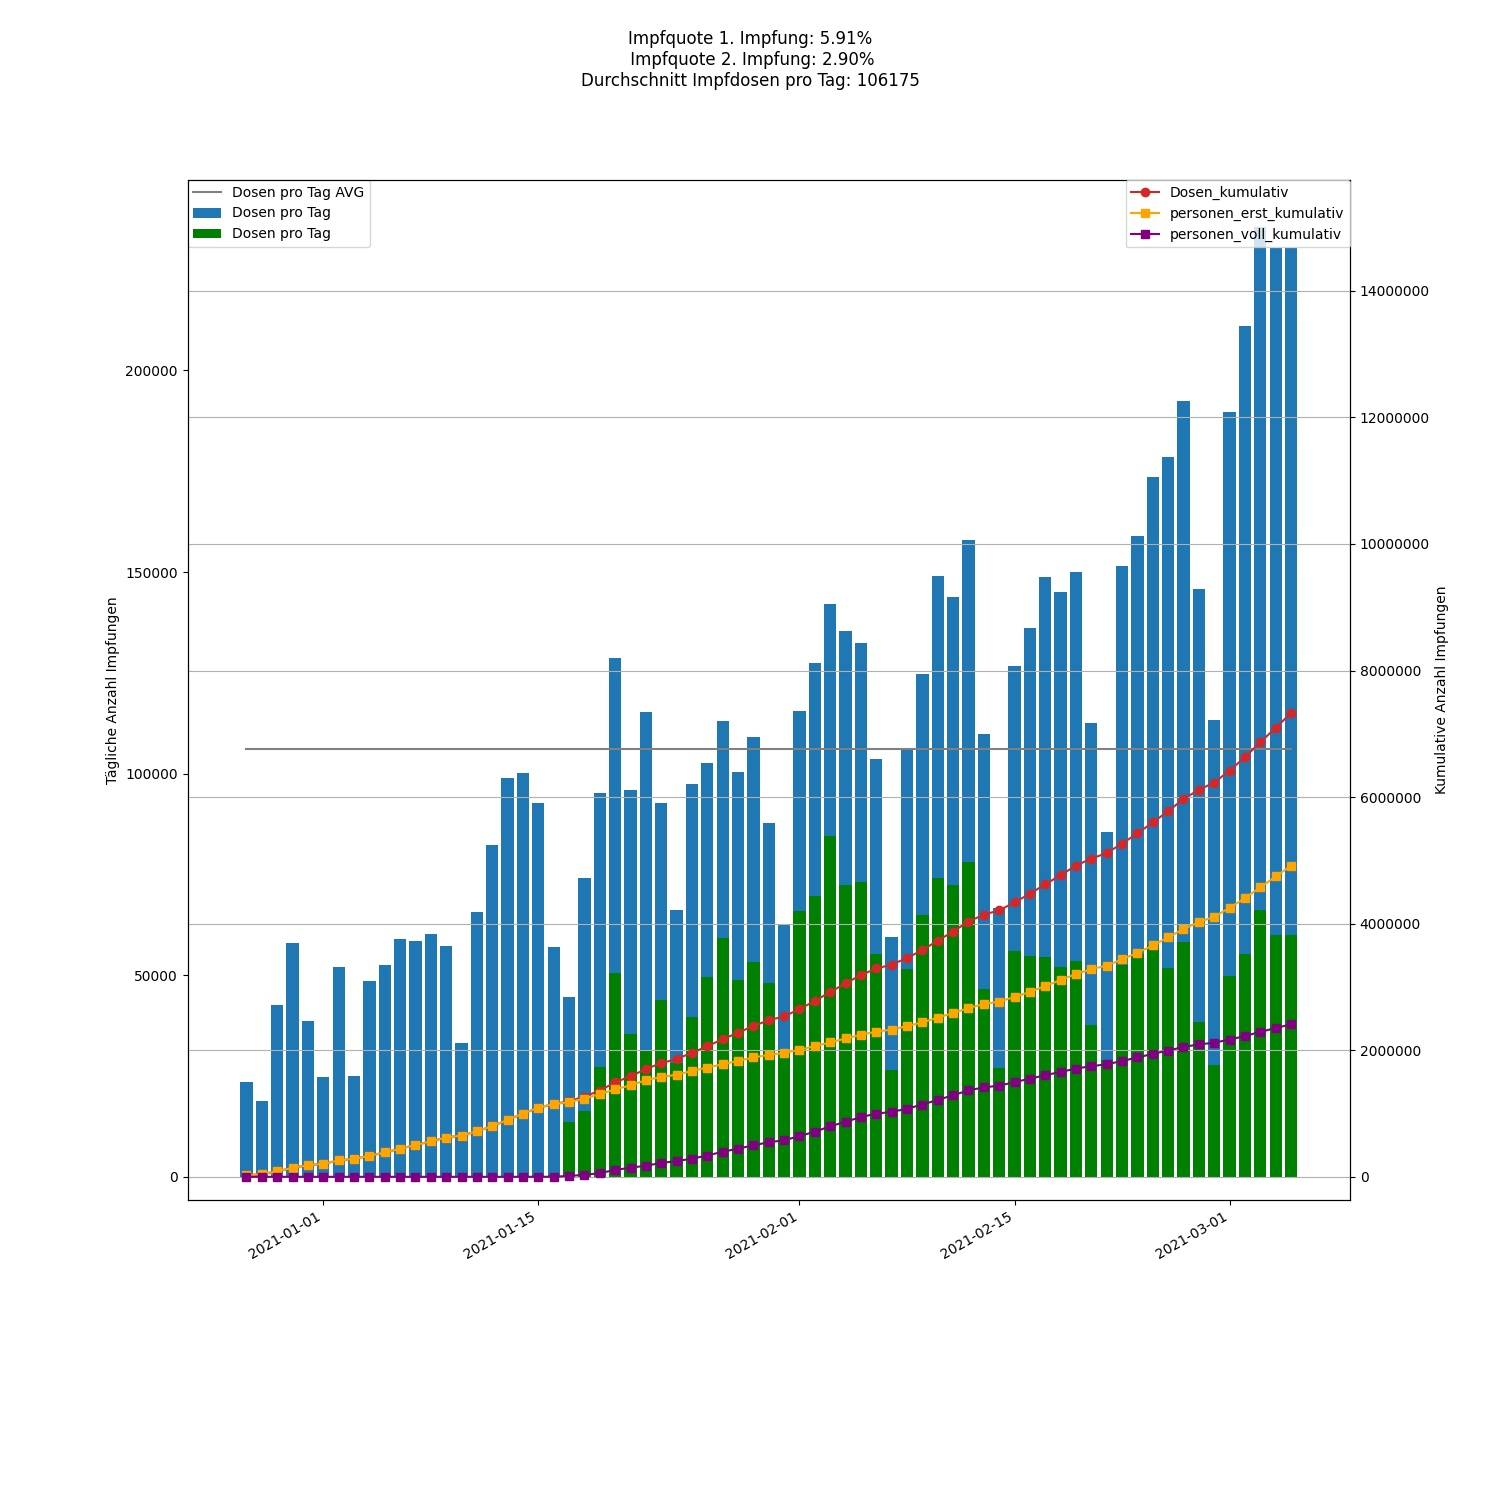
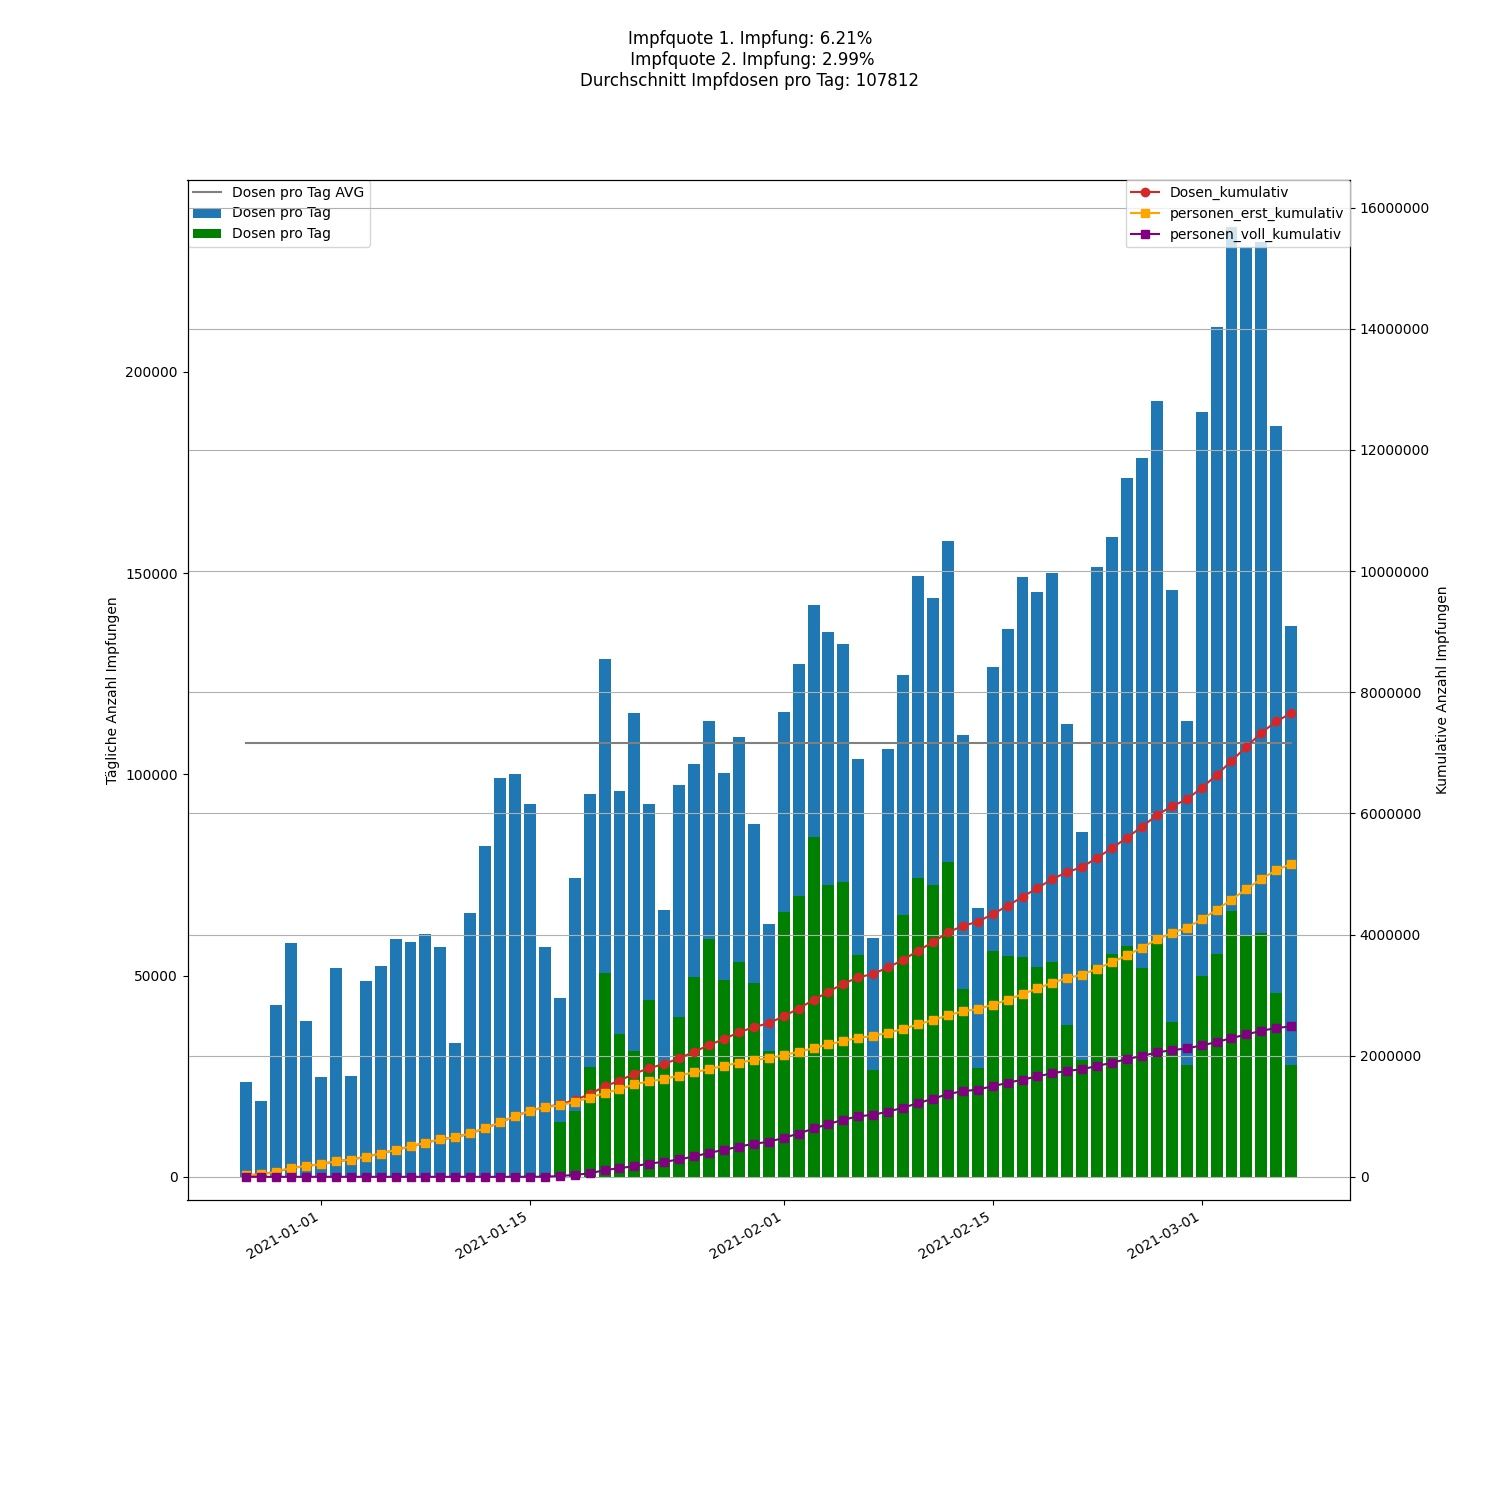
Crontab commit

diff --git a/Readme.md b/Readme.md
@@ -1,19 +1,19 @@
-# Corona vaccine Germany - Stand 2021-03-05
+# Corona vaccine Germany - Stand 2021-03-07
 ## Dashboard by [Simon Hamacher](https://www.shamacher.eu)
 ## Impfstoffe Übersicht
 **Impfstoffhersteller** | **verimpfte Dosen**
 -------- | :--------:
-Biontech | 6289950
-Moderna | 227469
-Astrazeneca | 808679
+Biontech | 6471432
+Moderna | 241102
+Astrazeneca | 942089
 
 
 ## Quoten
-**Total Verimpfte Dosen:** | 7326098
+**Total Verimpfte Dosen:** | 7654623
 -------- | :--------:
-**Erst-Impfquote** | 5.91 %
-**Voll-Impfquote** | 2.90 %
-**Imfungen Durchschnitt** | 106175.33 pro Tag
+**Erst-Impfquote** | 6.21 %
+**Voll-Impfquote** | 2.99 %
+**Imfungen Durchschnitt** | 107811.59 pro Tag
 ## Graphen
 <img src="Impfungen-Corona-01.jpg" alt="Corona-1" title="optionaler Titel" />
 <img src="Impfungen-Corona-02.jpg" alt="Corona-2" title="optionaler Titel" />
